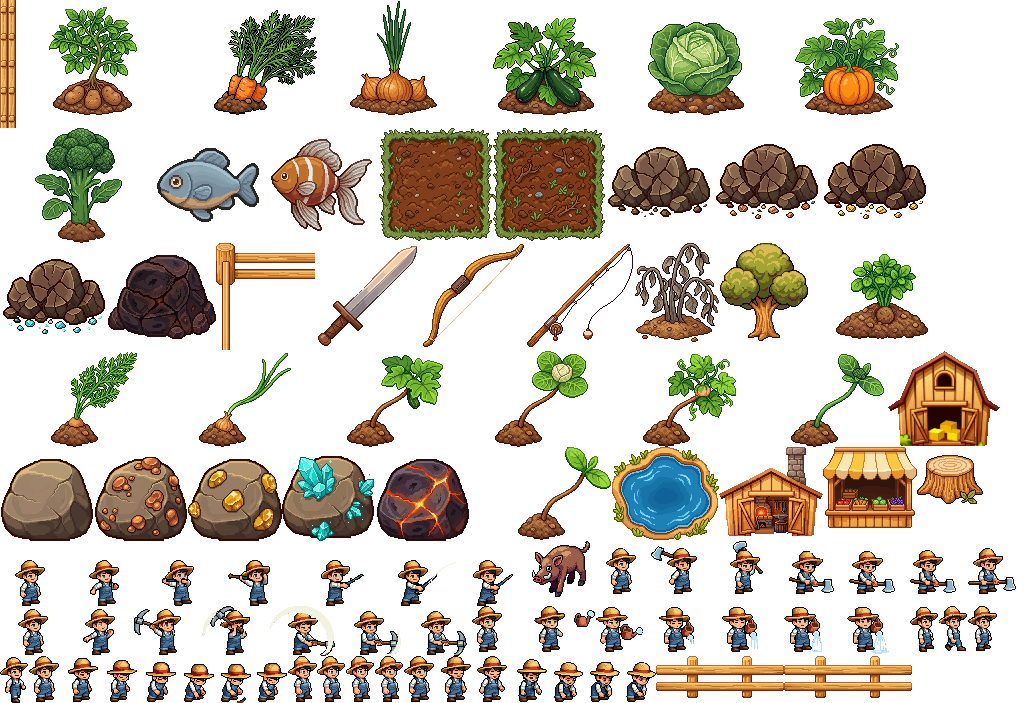
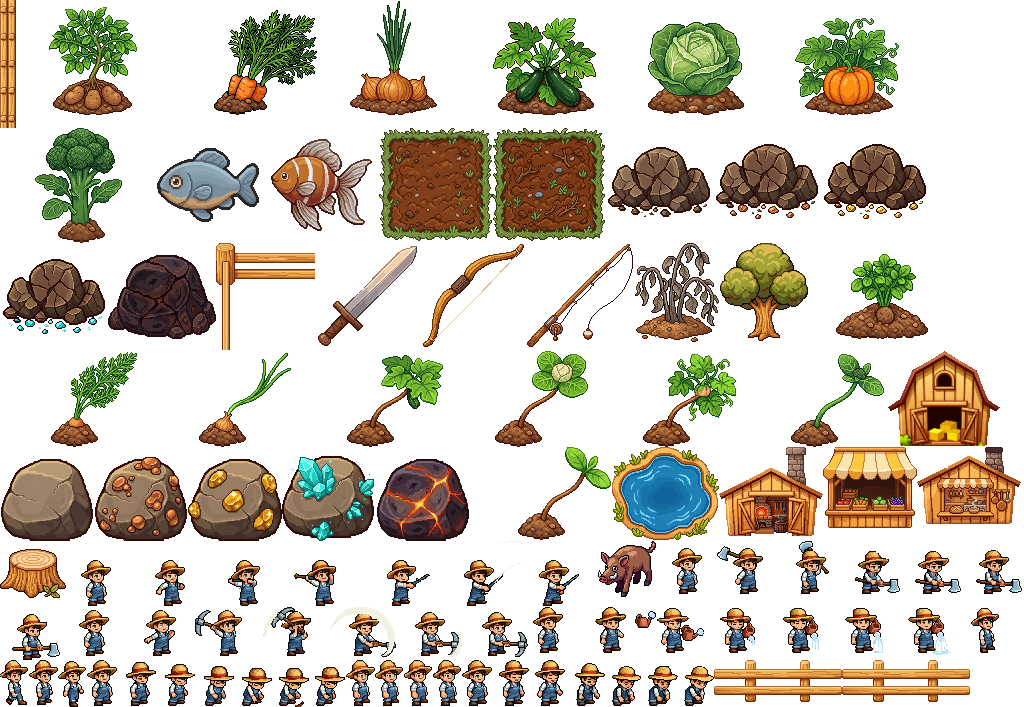
deploy mié 29/07/2026 20:09:27,97

diff --git a/public/game/farm.js b/public/game/farm.js
@@ -104,7 +104,7 @@ class FarmScene extends Phaser.Scene {
       s.setScale(rw / s.width); s.setDepth(by);
       // sombra bajo árboles y edificios (detalles 29/7)
       let shadow = null;
-      if (o.type === "tree" || o.type === "barn" || o.type === "market" || o.type === "store") {
+      if (o.type === "tree" || o.type === "barn" || o.type === "market" || o.type === "store" || o.type === "cocina") {
         shadow = this.add.ellipse(cx, by - 3, rw * 0.82, T * 0.3, 0x1c2a12, 0.22).setDepth(by - 0.5);
       }
       return { i, type: o.type, ore: o.ore, cx, by, w: o.w, rw, baseKey: o.key, sprite: s, shadow, readyAt: 0 };
@@ -369,7 +369,7 @@ class FarmScene extends Phaser.Scene {
     let best = null, bd = 1e9;
     const all = this.objs.concat(this.plots).concat(this.threats); if (this.portal) all.push(this.portal);
     for (const o of all) {
-      const rad = (o.type === "barn" || o.type === "market" || o.type === "store") ? 72 : (o.type === "plot" ? 42 : (o.type === "boar" ? 55 : (o.type === "portal" ? 50 : 58)));
+      const rad = (o.type === "barn" || o.type === "market" || o.type === "store" || o.type === "cocina") ? 72 : (o.type === "plot" ? 42 : (o.type === "boar" ? 55 : (o.type === "portal" ? 50 : 58)));
       const d = Math.hypot(o.cx - this.hero.x, o.by - this.hero.y);
       if (d < rad && d < bd) { bd = d; best = o; }
     }
@@ -394,6 +394,7 @@ class FarmScene extends Phaser.Scene {
     if (o.type === "barn") return "🏡 Granja";
     if (o.type === "market") return "🏪 Mercado";
     if (o.type === "store") return "🛠 Herrería";
+    if (o.type === "cocina") return "🍳 Cocina";
     if (o.type === "fish") return "🎣 Pescar (" + FISH_COST + " ✨ · tenés " + G.golden + ")";
     return "";
   }
@@ -405,6 +406,7 @@ class FarmScene extends Phaser.Scene {
     if (o.type === "barn") return openOv("ov-barn");
     if (o.type === "market") return openOv("ov-market");
     if (o.type === "store") return openOv("ov-forge");
+    if (o.type === "cocina") return openOv("ov-cocina");
     if (o.type === "boar") { o.sprite.destroy(); const i = this.threats.indexOf(o); if (i >= 0) this.threats.splice(i, 1); log("🥍 Espantaste al jabalí.", "good"); toast("🥍 ¡Espantado!"); return; }   // XP de espada llega con el combate (necesita espada equipada)
     if (o.type === "plot") {
       if (o.state === "locked") {   // desbloquear con plata (doble clic para confirmar)
@@ -782,7 +784,7 @@ class FarmScene extends Phaser.Scene {
     // clic-para-interactuar: al llegar cerca del objeto pedido, actuar
     if (this.pendingObj) {
       const po = this.pendingObj;
-      const rad = (po.type === "barn" || po.type === "market" || po.type === "store") ? 72 : 58;
+      const rad = (po.type === "barn" || po.type === "market" || po.type === "store" || po.type === "cocina") ? 72 : 58;
       const d = Math.hypot(po.cx - hero.x, po.by - hero.y);
       if (d < rad) { this.moveTarget = null; this.pendingObj = null; this.interactWith(po); if (this.action) { hero.setDepth(hero.y); return; } }
       else if (!this.moveTarget) this.pendingObj = null;

diff --git a/public/game/state.js b/public/game/state.js
@@ -236,12 +236,12 @@ function cook(id) {
   G.cooking = { id, endAt: nowMs() + COOK_MS, total: COOK_MS };
   log("🍳 Cocinando " + r.label + "…"); toast("🍳 Cocinando…");
   refreshHud(); if (typeof syncSlots === "function") syncSlots(); if (isOpen("ov-inv")) refreshInv();
-  if (typeof refreshCooking === "function" && isOpen("ov-barn")) refreshCooking();
+  if (typeof refreshCooking === "function" && isOpen("ov-cocina")) refreshCooking();
 }
 // se llama cada segundo desde el HUD: cuando termina la cocción, el plato va a la bolsa
 function checkCooking() {
   if (!G.cooking) return;
-  if (nowMs() < G.cooking.endAt) { if (typeof refreshCooking === "function" && isOpen("ov-barn")) refreshCooking(); return; }
+  if (nowMs() < G.cooking.endAt) { if (typeof refreshCooking === "function" && isOpen("ov-cocina")) refreshCooking(); return; }
   const r = RECIPE_DEF[G.cooking.id];
   if (r) {
     G.dishes = G.dishes || {};
@@ -251,7 +251,7 @@ function checkCooking() {
   }
   G.cooking = null;
   if (typeof syncSlots === "function") syncSlots(); if (isOpen("ov-inv")) refreshInv();
-  if (typeof refreshCooking === "function" && isOpen("ov-barn")) refreshCooking();
+  if (typeof refreshCooking === "function" && isOpen("ov-cocina")) refreshCooking();
   if (typeof saveFarm === "function") saveFarm();
 }
 // comer un plato de la bolsa (clic sobre el ítem)

diff --git a/public/game/boot.js b/public/game/boot.js
@@ -14,6 +14,7 @@ class BootScene extends Phaser.Scene {
     L.push(["boar", P + "boar.png"]);
     ["fish_comun","fish_raro"].forEach(k => L.push([k, P + k + ".png"]));   // pececitos de la laguna
     ["sword","bow"].forEach(k => L.push([k, P + k + ".png"]));   // arma visible al atacar en el Bosque
+    L.push(["cocina", P + "cocina.png"]);   // edificio de Cocina (detalles 29/7)
     // arte cozy nuevo (v2 rompe el caché del arte viejo)
     ["tree_stump","node_stone_mined"].forEach(k => L.push([k, P + k + ".png?v=2"]));
     // v4: restos correctos con fragmentos + brote/plantas recentrados en la tierra
@@ -41,8 +42,8 @@ class BootScene extends Phaser.Scene {
   preload() {
     // ATLAS: todos los sprites del mundo en 2 archivos (mucho más liviano para el server free).
     // Si el atlas no llega, ensureAll() baja los archivos sueltos como respaldo.
-    this.load.image("__atlas", "assets/atlas.png?v=12");
-    this.load.json("__atlasmap", "assets/atlas.json?v=12");
+    this.load.image("__atlas", "assets/atlas.png?v=13");
+    this.load.json("__atlasmap", "assets/atlas.json?v=13");
 
     // barra de carga simple
     const w = this.scale.width, h = this.scale.height;

diff --git a/public/game/ui.js b/public/game/ui.js
@@ -11,7 +11,8 @@ function log(m, k = "") { const b = $("log"); if (!b) return; const d = document
 function isOpen(id) { const e = $(id); return !!(e && e.classList.contains("show")); }
 function anyOvOpen() { return !!document.querySelector(".ov.show"); }
 const OV_REFRESH = { "ov-inv": () => refreshInv(), "ov-skills": () => refreshSkills(), "ov-equip": () => refreshEquip(),
-  "ov-forge": () => refreshForge(), "ov-market": () => refreshMarket(), "ov-barn": () => { refreshBarn(); refreshCooking(); },
+  "ov-forge": () => refreshForge(), "ov-market": () => refreshMarket(), "ov-barn": () => refreshBarn(),
+  "ov-cocina": () => refreshCooking(),
   "ov-config": () => refreshConfig(), "ov-lb": () => refreshLb(), "ov-daily": () => refreshDaily() };
 // los overlays NO bloquean el juego: podés seguir moviéndote/interactuando con la ventana abierta
 function openOv(id) { const e = $(id); if (!e) return; e.classList.add("show"); if (OV_REFRESH[id]) OV_REFRESH[id](); }

diff --git a/public/index.html b/public/index.html
@@ -308,8 +308,13 @@
     <div class="row"><button class="green" id="levelup">Subir de nivel</button><button class="gold" id="prestige" style="display:none">♻ Reiniciar granja</button></div>
     <div class="cost" id="toolinfo" style="display:none"></div>
     <div class="row"><button class="ghost sm" id="buytool" style="display:none"></button></div>
-    <h4 class="eqh">🍳 Cocina</h4>
-    <div class="sub">Los platos curan vida y dan buffs. Suben la skill Cocina.</div>
+  </div></div>
+
+  <!-- Cocina: edificio propio con las recetas (detalles 29/7) -->
+  <div class="ov" id="ov-cocina"><div class="card" style="width:min(500px,94%)">
+    <button class="close" data-close="ov-cocina">×</button>
+    <h3>🍳 Cocina</h3>
+    <div class="sub">Los platos curan vida y dan buffs. Cocinar tarda unos segundos y el plato va a tu bolsa. Sube la skill Cocina.</div>
     <div id="cook-list"></div>
   </div></div>
 

diff --git a/public/game/config.js b/public/game/config.js
@@ -36,6 +36,8 @@ GF.WORLD_OBJECTS.push(snap("store",  {type:"store"},  650, 480, T*3));          
 // quinta.docx: 5 árboles y 4 piedras en total — agregados AL FINAL para no romper layouts guardados
 [[695,115],[915,300]].forEach(t => GF.WORLD_OBJECTS.push(snap("tree", {type:"tree"}, t[0], t[1], T*2)));
 [[705,420],[830,480]].forEach(r => GF.WORLD_OBJECTS.push(snap("node_stone", {type:"rock"}, r[0], r[1], T)));
+// edificio de Cocina (detalles 29/7) — también al FINAL para preservar layouts guardados
+GF.WORLD_OBJECTS.push(snap("cocina", {type:"cocina"}, 390, 296, T*2));                                                     // 2 celdas
 
 // lotes 4x3, cada uno 1 celda, alineados a la grilla (col 2, fila 3)
 GF.PLOTS = [];
